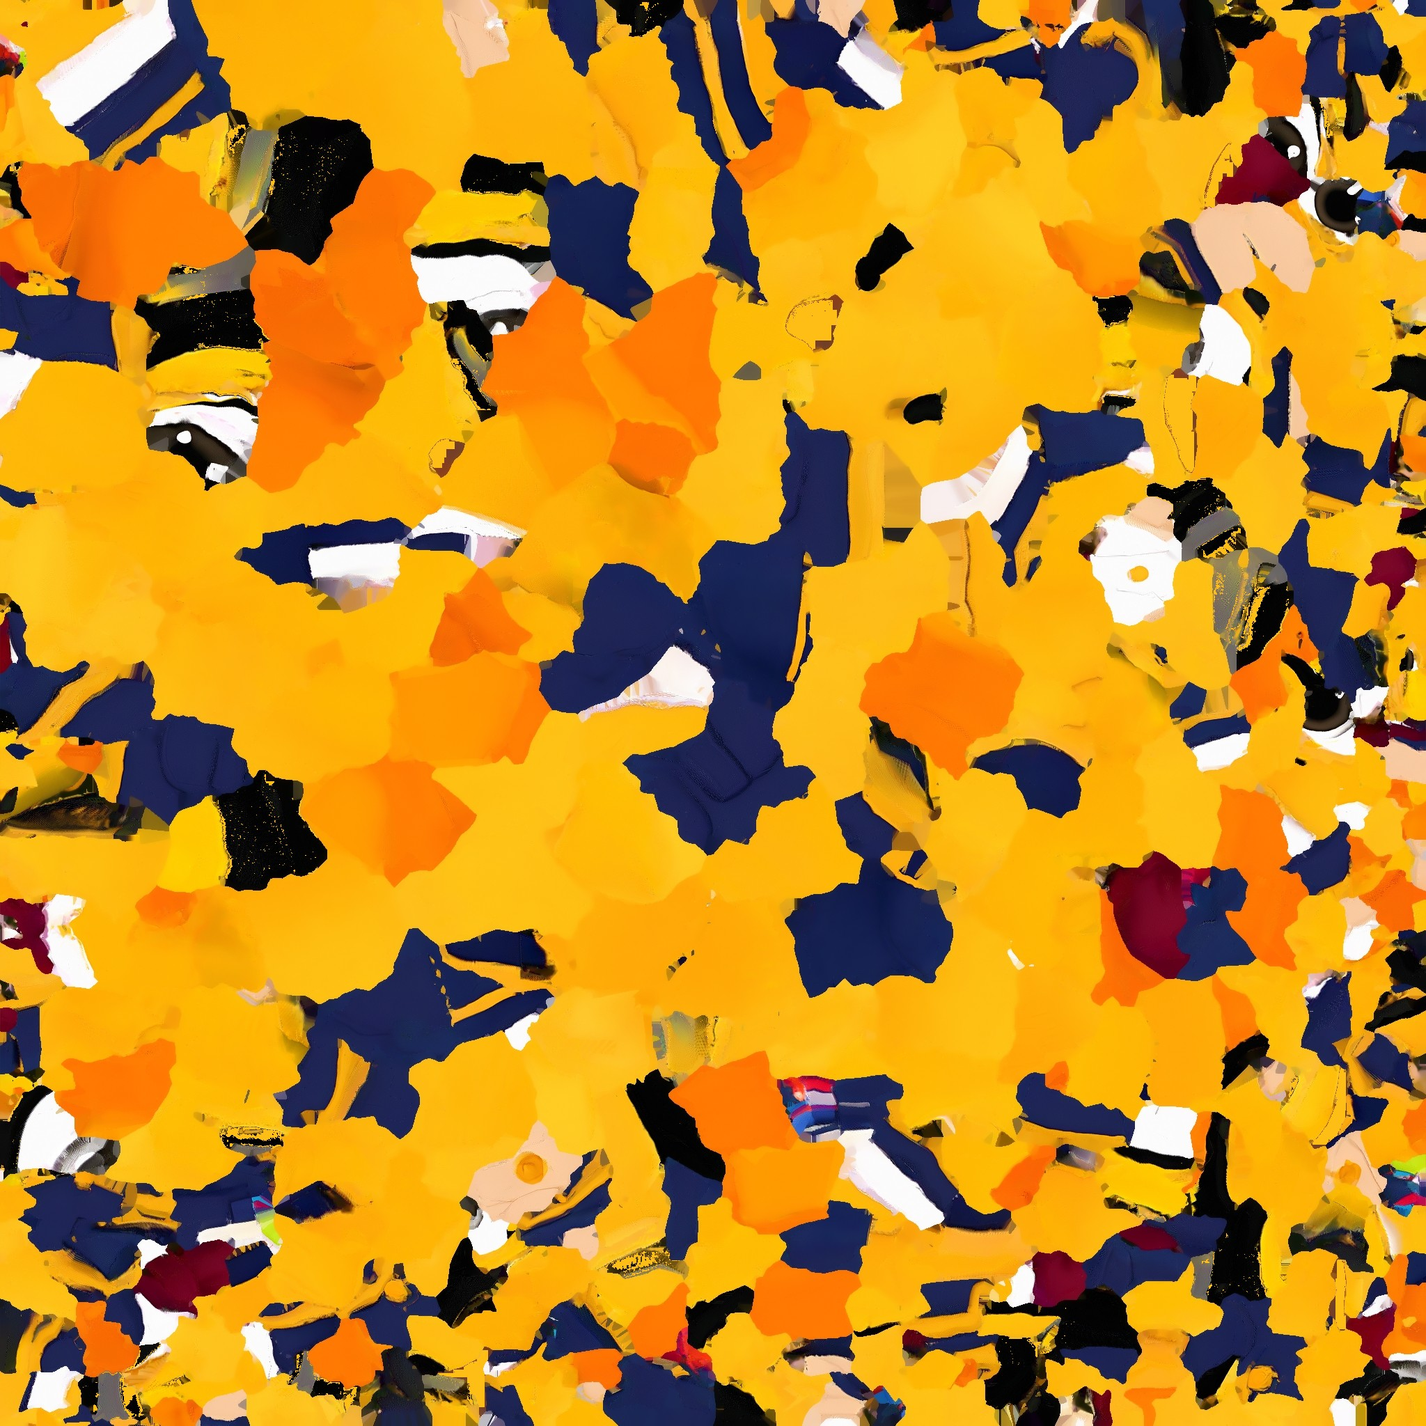
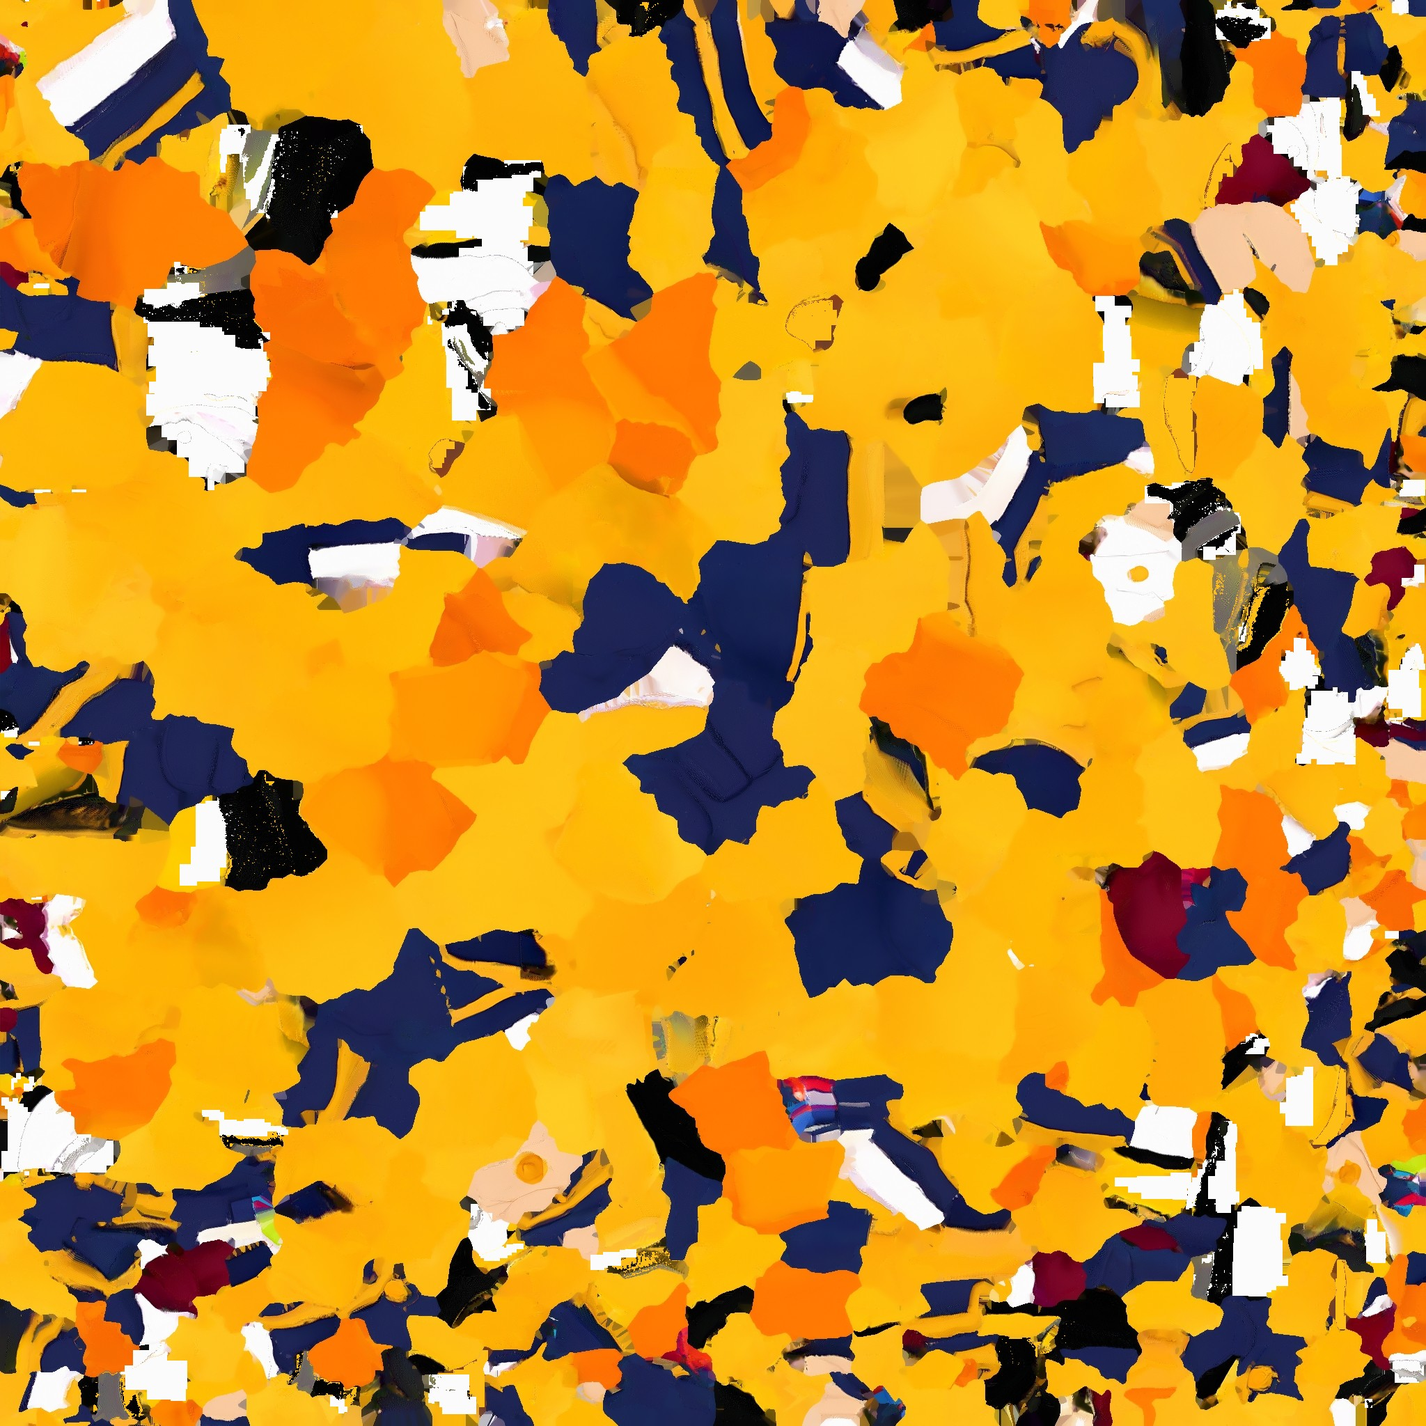
New default character (feet, tail, clean eyes); lesson 6 = Test on new eggs; WebGL 2 build fix

diff --git a/tools/compose_trailer_bgm.py b/tools/compose_trailer_bgm.py
@@ -1,0 +1,206 @@
+"""
+Original background music for the Professor Quack trailer (no samples, no third-party audio).
+A playful "quirky corporate" theme: pizzicato strings (Karplus-Strong), glockenspiel melody, bouncy bass,
+light percussion, and a triumphant string swell for the board-meeting finale. 115 BPM, C major, 76 s.
+
+Sections follow the trailer's cuts (seconds): title 0-4, TV story 4-12, egg cloud + dials 12-33,
+bands / landscape / gradient descent 33-54, whiteboard 54-59, board meeting 59-71, congratulations 71-76.
+
+Run with any Python that has numpy (e.g. Blender's bundled Python):
+  python3 tools/compose_trailer_bgm.py out.wav
+"""
+import sys, wave
+import numpy as np
+
+SR = 44100
+BPM = 115.0
+BEAT = 60.0 / BPM
+BAR = 4 * BEAT
+LENGTH = 76.0
+N = int(SR * LENGTH)
+L = np.zeros(N); R = np.zeros(N)
+rng = np.random.default_rng(7)
+
+
+def hz(m): return 440.0 * 2 ** ((m - 69) / 12.0)
+
+
+def add(sig, t0, gain=1.0, pan=0.0):
+    i = int(t0 * SR)
+    if i >= N or i + len(sig) <= 0: return
+    s = sig[: max(0, N - i)]
+    lg, rg = np.cos((pan + 1) * np.pi / 4), np.sin((pan + 1) * np.pi / 4)
+    L[i:i + len(s)] += s * gain * lg * 1.414
+    R[i:i + len(s)] += s * gain * rg * 1.414
+
+
+def pluck(m, dur, bright=0.5):
+    """Karplus-Strong pizzicato: a noise burst through a damped delay line, computed block by block."""
+    f = hz(m); d = max(2, int(round(SR / f)))
+    n = int(SR * dur)
+    y = np.zeros(n + d + 1)
+    burst = rng.uniform(-1, 1, d)
+    burst = np.convolve(burst, np.ones(3) / 3, mode="same") * (0.6 + bright * 0.4)
+    y[:d] = burst
+    decay = 0.996 - 0.004 * (m - 48) / 36
+    i = d
+    while i < n + d:
+        j = min(i + d, n + d)
+        y[i:j] = decay * 0.5 * (y[i - d:j - d] + y[i - d - 1:j - d - 1] if i - d - 1 >= 0 else y[i - d:j - d])
+        i = j
+    out = y[d:d + n]
+    env = np.minimum(1, np.arange(n) / (0.002 * SR)) * np.exp(-np.arange(n) / SR * 5.5)
+    return out * env
+
+
+def glock(m, dur=1.2):
+    t = np.arange(int(SR * dur)) / SR
+    f = hz(m)
+    parts = [(1, 1.0, 3.0), (2.76, 0.35, 7.0), (5.40, 0.15, 12.0), (8.93, 0.06, 18.0)]
+    s = sum(a * np.sin(2 * np.pi * f * k * t) * np.exp(-t * dk) for k, a, dk in parts)
+    return s * np.minimum(1, t / 0.001)
+
+
+def bass(m, dur):
+    t = np.arange(int(SR * dur)) / SR
+    f = hz(m)
+    s = np.sin(2 * np.pi * f * t) + 0.35 * np.sin(4 * np.pi * f * t) + 0.12 * np.sin(6 * np.pi * f * t)
+    return s * np.minimum(1, t / 0.004) * np.exp(-t * 4.5)
+
+
+def kick():
+    t = np.arange(int(SR * 0.25)) / SR
+    f = 45 + 80 * np.exp(-t * 30)
+    return np.sin(2 * np.pi * np.cumsum(f) / SR) * np.exp(-t * 14)
+
+
+def shaker():
+    n = int(SR * 0.06)
+    x = rng.uniform(-1, 1, n); x = np.diff(np.concatenate([[0], x]))
+    return x * np.exp(-np.arange(n) / SR * 70)
+
+
+def pad(ms, dur, attack=1.5):
+    """Warm string pad: detuned band-limited saws, slow attack."""
+    t = np.arange(int(SR * dur)) / SR
+    s = np.zeros_like(t)
+    for m in ms:
+        for det in (-0.07, 0.0, 0.08):
+            f = hz(m + det)
+            for k in range(1, 10):
+                s += np.sin(2 * np.pi * f * k * t + k) / k * (0.85 ** k)
+    s /= len(ms) * 3
+    env = np.minimum(1, t / attack) * np.minimum(1, (dur - t) / 0.4)
+    return s * env
+
+
+def timpani(m):
+    t = np.arange(int(SR * 1.2)) / SR
+    f = hz(m) * (1 + 0.15 * np.exp(-t * 20))
+    return (np.sin(2 * np.pi * np.cumsum(f) / SR) * 0.9 + rng.uniform(-1, 1, len(t)) * 0.15 * np.exp(-t * 25)) * np.exp(-t * 3)
+
+
+def cymbal(dur, swell=False):
+    n = int(SR * dur); t = np.arange(n) / SR
+    x = rng.uniform(-1, 1, n); x = np.diff(np.concatenate([[0], x]))
+    env = (t / dur) ** 2 if swell else np.exp(-t * 1.8)
+    return x * env
+
+
+CH = {"C": [48, 52, 55], "Am": [45, 48, 52], "F": [41, 45, 48], "G": [43, 47, 50], "Em": [40, 43, 47], "Dm": [38, 41, 45]}
+ROOT = {"C": 36, "Am": 33, "F": 29, "G": 31, "Em": 28, "Dm": 26}
+A = ["C", "Am", "F", "G"]
+B = ["F", "G", "Em", "Am"]
+
+# melody: (beat in bar, length in beats, midi), four bars
+MEL = [
+    [(0, .5, 76), (.5, .5, 79), (1, .5, 81), (1.5, .5, 79), (2, 1, 76), (3, 1, 72)],
+    [(0, .5, 72), (.5, .5, 74), (1, .5, 76), (1.5, .5, 74), (2, 2, 69)],
+    [(0, .5, 77), (.5, .5, 76), (1, .5, 74), (1.5, .5, 72), (2, 1, 74), (3, 1, 77)],
+    [(0, 1.5, 79), (1.5, .5, 77), (2, 1, 74), (3, 1, 71)],
+]
+MEL_B = [
+    [(0, 1, 81), (1, .5, 79), (1.5, .5, 77), (2, 1, 76), (3, 1, 77)],
+    [(0, 1, 79), (1, .5, 77), (1.5, .5, 76), (2, 2, 74)],
+    [(0, .5, 76), (.5, .5, 79), (1, .5, 83), (1.5, .5, 79), (2, 1, 76), (3, 1, 79)],
+    [(0, 1, 81), (1, 1, 76), (2, 2, 72)],
+]
+
+
+def bar_time(b): return b * BAR
+
+
+def oompah(b, chord, level=1.0, offbeats=True):
+    t0 = bar_time(b)
+    add(bass(ROOT[chord], BEAT * 0.9), t0, 0.55 * level)
+    add(bass(ROOT[chord] + 7, BEAT * 0.9), t0 + 2 * BEAT, 0.45 * level)
+    for k, beat in enumerate([1, 3] + ([0.5, 1.5, 2.5, 3.5] if offbeats else [])):
+        for j, m in enumerate(CH[chord]):
+            add(pluck(m + 12, 0.35, 0.4), t0 + beat * BEAT + j * 0.004, 0.16 * level, pan=-0.4 if k % 2 else 0.4)
+
+
+def melody(b, phrase, inst="glock", octave=0, level=1.0):
+    t0 = bar_time(b)
+    for beat, ln, m in phrase:
+        if inst == "glock": add(glock(m + octave, max(0.6, ln * BEAT * 2)), t0 + beat * BEAT, 0.22 * level, pan=0.2)
+        else: add(pluck(m + octave, max(0.3, ln * BEAT * 1.4), 0.7), t0 + beat * BEAT, 0.3 * level, pan=-0.1)
+
+
+def drums(b, level=1.0, kicks=True):
+    t0 = bar_time(b)
+    for e in range(8):
+        add(shaker(), t0 + e * BEAT / 2, (0.05 if e % 2 else 0.035) * level, pan=0.3)
+    if kicks:
+        add(kick(), t0, 0.5 * level); add(kick(), t0 + 2 * BEAT, 0.42 * level)
+
+
+# --- arrangement (bar numbers; one bar = 2.087 s) ---
+# bars 0-1: title: glockenspiel motif alone over a soft C pad
+add(pad(CH["C"], 2 * BAR, 1.0), 0, 0.10)
+melody(0, MEL[0]); melody(1, MEL[3], level=0.8)
+# bars 2-5: the TV story: pizzicato oom-pah, no melody yet
+for i, b in enumerate(range(2, 6)): oompah(b, A[i % 4], 0.8, offbeats=(b > 3))
+melody(5, [(2, .5, 79), (2.5, .5, 81), (3, 1, 83)], level=0.7)
+# bars 6-15: egg cloud + dials: full groove, glockenspiel melody doubled by pizzicato
+for i, b in enumerate(range(6, 16)):
+    oompah(b, A[i % 4]); drums(b, 0.9 if b > 7 else 0.5, kicks=b > 7)
+    melody(b, MEL[i % 4]); melody(b, MEL[i % 4], "pluck", -12, 0.5)
+# bars 16-25: bands, landscape, gradient descent: B section, countermelody
+for i, b in enumerate(range(16, 26)):
+    ch = B[i % 4] if i < 8 else ["F", "G"][i - 8]
+    oompah(b, ch); drums(b, 1.0)
+    melody(b, MEL_B[i % 4]); melody(b, MEL_B[i % 4], "pluck", -12, 0.45)
+add(cymbal(BAR, swell=True), bar_time(25), 0.05)
+# bars 26-27: whiteboard: a breather, plucks only
+oompah(26, "Am", 0.6, offbeats=False); oompah(27, "Dm", 0.6, offbeats=False)
+melody(27, [(2, .5, 74), (2.5, .5, 77), (3, .5, 79), (3.5, .5, 83)], "pluck", 0, 0.6)
+# bars 28-33: board meeting: strings swell, timpani, the theme an octave up, triumphant progression
+FIN = ["F", "G", "Am", "F", "G", "G"]
+for i, b in enumerate(range(28, 34)):
+    ch = FIN[i]
+    add(pad([m + 12 for m in CH[ch]], BAR + 0.3, 0.6), bar_time(b), 0.10 + 0.03 * i)
+    oompah(b, ch, 0.9); drums(b, 1.0)
+    add(timpani(ROOT[ch] + 12), bar_time(b), 0.25)
+    melody(b, MEL[i % 4], octave=12 if i > 1 else 0, level=0.9)
+add(cymbal(BAR, swell=True), bar_time(33), 0.08)
+for k in range(4): add(timpani(43), bar_time(33) + 2 * BEAT + k * BEAT / 2, 0.16 + 0.05 * k)
+# bar 34+: congratulations: big C chord, glockenspiel arpeggio flourish, cymbal, ring out
+t_end = bar_time(34)
+add(pad([60, 64, 67, 72], LENGTH - t_end, 0.08), t_end, 0.28)
+add(bass(36, 3.0), t_end, 0.7); add(timpani(48), t_end, 0.4); add(kick(), t_end, 0.6)
+add(cymbal(4.0), t_end, 0.12)
+for k, m in enumerate([72, 76, 79, 84, 88, 91, 96]): add(glock(m, 2.5), t_end + k * 0.07, 0.2)
+for j, m in enumerate([60, 64, 67, 72]): add(pluck(m, 1.5, 0.8), t_end + j * 0.01, 0.25)
+
+# --- master: gentle compression, fade in/out, normalise ---
+mix = np.stack([L, R])
+mix = np.tanh(mix * 1.6) / np.tanh(1.6)
+fade = np.ones(N); fi = int(0.3 * SR); fo = int(2.5 * SR)
+fade[:fi] = np.linspace(0, 1, fi); fade[-fo:] = np.linspace(1, 0, fo) ** 1.5
+mix *= fade
+mix /= np.max(np.abs(mix)) / 0.89
+pcm = (mix.T * 32767).astype("<i2")
+out = sys.argv[1] if len(sys.argv) > 1 else "trailer_bgm.wav"
+with wave.open(out, "wb") as w:
+    w.setnchannels(2); w.setsampwidth(2); w.setframerate(SR); w.writeframes(pcm.tobytes())
+print("wrote", out, f"{LENGTH:.1f}s")

diff --git a/Assets/_Quack/Runtime/Lesson/LessonDirector.cs b/Assets/_Quack/Runtime/Lesson/LessonDirector.cs
@@ -533,8 +533,8 @@ namespace Quack
             stages.Add(new Stage
             {
                 Id = "F_test_and_scale",
-                Title = "Test and scale",
-                Goal = "Training eggs taught the rule. The dark, ringed eggs were held back: the rule has never seen them. Evaluate on them, then run the next shipment through the learned sorter.",
+                Title = "Test on new eggs",
+                Goal = "Training eggs taught the rule. The dark, ringed eggs were held back: the rule has never seen them. Evaluate on them, then let the learned sorter handle the next shipment of new eggs.",
                 IntroSpeech = "Moment of truth. These outlined eggs were locked in my office the whole time, so the machine has never seen them. If it does well on them, it learned a rule, not a list of answers.",
                 Enter = () =>
                 {
@@ -547,21 +547,18 @@ namespace Quack
                 Action = () => !evaluated ? ("Evaluate on held-out eggs", Evaluate)
                              : !shipped ? ("Run the next shipment (10,000 eggs)", RunShipment) : null,
                 Done = () => evaluated && shipped,
-                RecapTitle = "Sequential vs batch processing",
+                RecapTitle = "Unseen eggs",
                 RecapLines = () =>
                 {
                     var t = LogisticModel.Evaluate(state.Params, state.Space.Test);
-                    const string blue = "<color=#1A3A9E>", red = "<color=#B3261E>", end = "</color>";
                     var lines = new List<string>
                     {
-                        $"Unseen eggs: {t.Correct}/{t.Total} correct  (JUMBO {t.TruePos}/{t.TruePos + t.FalseNeg}, STANDARD {t.TrueNeg}/{t.TrueNeg + t.FalsePos})",
-                        $"{blue}SEQUENTIAL{end}: one egg at a time,  {VizUtil.M("<i>z</i> = <b><i>w</i></b>\u00B7<b><i>x</i></b> + <i>b</i>")},  10,000 times",
-                        $"{blue}BATCH{end}: eggs = rows of a matrix X  (10,000 x 3)",
-                        $"{VizUtil.M("<b><i>z</i></b> = <i>X</i> <b><i>w</i></b> + <i>b</i>")}: every egg scored in ONE operation",
-                        $"Same w and b, same answers: only {red}how the work is organised{end} changes",
-                        "Parallel workers help, but they are finite and moving data costs time",
+                        $"Held-out eggs: {t.Correct}/{t.Total} correct  (JUMBO {t.TruePos}/{t.TruePos + t.FalseNeg}, STANDARD {t.TrueNeg}/{t.TrueNeg + t.FalsePos})",
+                        "Training taught the rule; evaluation checks it on eggs it never saw",
+                        "Using the trained rule on new eggs (inference) never changes w or b",
                     };
-                    if (shipmentLines != null && shipmentLines.Length > 1) { lines.Add(shipmentLines[1]); if (shipmentLines.Length > 2) lines.Add(shipmentLines[2]); }
+                    if (shipmentLines != null && shipmentLines.Length > 0) lines.Add(shipmentLines[0]);
+                    lines.Add($"Unsure eggs go to an inspector: a review band, separate from the {VizUtil.M("<i>p</i> = 0.5")} decision");
                     return lines.ToArray();
                 },
             });
@@ -698,7 +695,7 @@ namespace Quack
             "Turn a score into a probability with the sigmoid",
             "Tell accuracy from loss: confident mistakes cost most",
             "Train with gradient descent and choose a sensible learning rate",
-            "Judge a model on held-out data, then run it on a whole batch",
+            "Judge a model on held-out data, then use it on new eggs",
         };
 
         /// <summary>Pause menu: start the current lesson again.</summary>
@@ -739,24 +736,15 @@ namespace Quack
             const int N = 10000;
             const double reviewBand = 0.15;   // flag eggs with 0.35 < p < 0.65 for a human; decisions still use p >= 0.5
             var shipment = ShipmentGenerator.Generate(N);
-            var sw = System.Diagnostics.Stopwatch.StartNew();
             var r = ShipmentGenerator.Classify(shipment, state.Space.Scaler, state.Space.Active, state.Params, reviewBand);
-            sw.Stop();
             shipped = true;
             lastFlagged = r.FlaggedForReview;
             state.Log("shipment", $"{r.Jumbo} jumbo, {r.Standard} standard, {r.FlaggedForReview} flagged");
-            // illustrative cost model (NOT a measurement): per-egg overhead vs per-batch overhead; finite workers + transfer cost
-            double perEggOverheadUs = 40, perEggComputeUs = 0.05, batch = 256, perBatchOverheadUs = 60, workers = 4, transferUs = 2000;
-            double oneAtATime = N * (perEggOverheadUs + perEggComputeUs) / 1000.0;
-            double batched = (Math.Ceiling(N / batch) * perBatchOverheadUs + N * perEggComputeUs) / 1000.0;
-            double parallel = transferUs / 1000.0 + batched / workers;
             shipmentLines = new[]
             {
-                $"Shipment of {N:N0}: {r.Jumbo:N0} JUMBO, {r.Standard:N0} STANDARD; {r.FlaggedForReview:N0} unsure (0.35<p<0.65) sent to an inspector",
-                $"Measured here: {sw.Elapsed.TotalMilliseconds:0.0} ms for {N:N0} eggs (one CPU thread, this C# code)",
-                $"ILLUSTRATIVE, not measured: one-at-a-time ~{oneAtATime:0} ms; batches of {batch} ~{batched:0.0} ms; {workers} workers + transfer ~{parallel:0.0} ms",
+                $"Next shipment of {N:N0}: {r.Jumbo:N0} JUMBO, {r.Standard:N0} STANDARD; {r.FlaggedForReview:N0} unsure (0.35 < p < 0.65) sent to an inspector",
             };
-            whiteboard.Show($"Next shipment: {N:N0} new eggs", shipmentLines);
+            whiteboard.Show($"Next shipment: {N:N0} new eggs", shipmentLines[0], "Same rule, same w and b: it only predicts, it does not learn here");
             speech.Say(new TutorLine($"Ten thousand eggs, sorted. {r.FlaggedForReview} were too close to call, so they go to a human inspector instead of guessing. Finally, a factory I can be proud of.",
                 Emotion.Delighted, Gesture.Celebrate, TutorPriority.Teaching) { Gaze = GazeTarget.Whiteboard, Duck = DuckBehavior.Quack });
         }

diff --git a/tools/blender/prepare_quacks.py b/tools/blender/prepare_quacks.py
@@ -175,6 +175,33 @@ if opt["--face"]:
         img.pixels[:] = px.ravel().tolist(); img.update()
     print(f"QUACKS painted out baked brows: {painted} pixels")
 
+    # paint the baked pupils/irises out too (Unity adds moving eyes): inside each eye's sclera disc, dark or brown
+    # pixels -> the sclera's own white. Otherwise the old pupil peeks out beside the animated eye when the head turns.
+    sclera = np.median(col[eye], axis=0) if eye.sum() > 10 else np.array([0.93, 0.92, 0.9])
+    painted_eyes = 0
+    for tag in ("L", "R"):
+        if f"eye{tag}" not in FACE: continue
+        ec = np.array(FACE[f"eye{tag}"]); er = FACE[f"eye{tag}_r"]
+        dxz = np.linalg.norm((co - ec)[:, [0, 2]], axis=1)
+        inside = (dxz < er * 1.12) & (co[:, 1] < ec[1] + 0.04 * D)
+        for p in me.polygons:
+            vs = list(p.vertices)
+            if not inside[vs].all(): continue
+            uvs = np.array([uvl[li].uv[:] for li in p.loop_indices]) * [TW, TH]
+            x0, y0 = np.floor(uvs.min(0)).astype(int); x1, y1 = np.ceil(uvs.max(0)).astype(int)
+            x0, y0 = max(x0, 0), max(y0, 0); x1, y1 = min(x1, TW - 1), min(y1, TH - 1)
+            if x1 <= x0 or y1 <= y0: continue
+            patch = px[y0:y1 + 1, x0:x1 + 1, :3]
+            ph = np.array([colorsys.rgb_to_hsv(*c) for c in patch.reshape(-1, 3)]).reshape(patch.shape)
+            outer = dxz[vs].mean() > er * 0.95   # ring near the glasses: only brown iris pixels, never the black rim
+            brownish = (ph[..., 1] > 0.3) & (ph[..., 0] < 0.15)
+            bad = brownish if outer else ((ph[..., 2] < 0.6) | brownish)
+            if bad.any():
+                patch[bad] = sclera; painted_eyes += int(bad.sum())
+    if painted_eyes:
+        img.pixels[:] = px.ravel().tolist(); img.update()
+    print(f"QUACKS painted out baked pupils: {painted_eyes} pixels")
+
 # 3b) optional: remove the generated head (baked eyes/glasses can't animate); Unity attaches the
 #     procedural Design A head + controllable face to the head bone instead.
 if opt["--strip-head"]:

diff --git a/Assets/_Quack/Runtime/QuackGame.cs b/Assets/_Quack/Runtime/QuackGame.cs
@@ -90,7 +90,7 @@ namespace Quack
             // generated body only when explicitly requested (until a clean Design A model is approved)
             QuacksRig rig = null;
             // the generated Design A model is the default when it is in the build; -quackStandin forces the primitive stand-in
-            var charName = ArgValue("-quackCharacter") ?? (HasArg("-quackStandin") ? null : "ProfessorQuack");
+            var charName = ArgValue("-quackCharacter") ?? (HasArg("-quackStandin") ? null : "ProfessorQuackV2");
             if (charName != null)
             {
                 rig = CharacterLoader.TryLoad(charName, Palette, out var report);
@@ -340,7 +340,7 @@ namespace Quack
                 l.type = LightType.Point; l.transform.position = pos; l.range = 10; l.intensity = intensity; l.color = new Color(1f, 0.96f, 0.9f);
             }
             QuacksRig rig = null;
-            var charName = ArgValue("-quackCharacter") ?? (HasArg("-quackStandin") ? null : "ProfessorQuack");
+            var charName = ArgValue("-quackCharacter") ?? (HasArg("-quackStandin") ? null : "ProfessorQuackV2");
             if (charName != null) { rig = CharacterLoader.TryLoad(charName, Palette, out var report); Debug.Log("QUACK_CHARACTER " + report); }
             if (rig == null) rig = QuacksRig.BuildPlaceholder(null, Palette);
             rig.transform.SetPositionAndRotation(Vector3.zero, Quaternion.identity);

diff --git a/Assets/_Quack/Runtime/TrailerDirector.cs b/Assets/_Quack/Runtime/TrailerDirector.cs
@@ -9,7 +9,7 @@ namespace Quack
     /// <summary>
     /// Records a ~80 s gameplay trailer from the real game (-quackTrailer &lt;dir&gt;): a scripted run through the title, the
     /// intro video, the egg cloud, a player turning the desk dials, probability bands, parameter space, gradient descent,
-    /// the batch whiteboard and the board-meeting finale. Frames are rendered at a fixed 30 fps (Time.captureFramerate),
+    /// the unseen-eggs test and the board-meeting finale. Frames are rendered at a fixed 30 fps (Time.captureFramerate),
     /// so the result is smooth however slowly the machine renders; frames are saved as JPEGs for ffmpeg.
     /// Everything shown is the live simulation: the dial turns change the real parameters.
     /// </summary>
@@ -197,7 +197,7 @@ namespace Quack
             yield return Wait(0.8f);
 
             Debug.Log("QUACK_TRAILER segment 8) unseen eggs frame=" + frame);
-            // 8) unseen eggs and sequential vs batch
+            // 8) unseen eggs
             Start.OnJump?.Invoke("F_test_and_scale"); yield return Park(home);
             desk.UserSteered = true; desk.SetView(8);
             yield return Wait(2.0f);

diff --git a/Assets/_Quack/Editor/BuildScripts.cs b/Assets/_Quack/Editor/BuildScripts.cs
@@ -29,6 +29,9 @@ namespace Quack.Editor
             PlayerSettings.WebGL.dataCaching = true;
             PlayerSettings.WebGL.exceptionSupport = WebGLExceptionSupport.ExplicitlyThrownExceptionsOnly;
             PlayerSettings.runInBackground = true;
+            // WebGL 2 only: with WebGPU listed first, browsers that fall back to WebGL 2 drew no lit (URP) meshes at all
+            PlayerSettings.SetUseDefaultGraphicsAPIs(BuildTarget.WebGL, false);
+            PlayerSettings.SetGraphicsAPIs(BuildTarget.WebGL, new[] { UnityEngine.Rendering.GraphicsDeviceType.OpenGLES3 });
             Build(BuildTarget.WebGL, "Builds/WebGL");
             EditorApplication.Exit(exitCode);
         }

diff --git a/README.md b/README.md
@@ -13,7 +13,7 @@ Professor Quack's egg-sorting machine breaks the night before a big shipment. Yo
 | 3 | Measure the mistakes | **probability** `p = σ(z)` and **cross-entropy loss** vs accuracy |
 | 4 | Explore the landscape | **parameter space**: a labelled 2D slice of the loss surface |
 | 5 | Teach the machine | **gradient descent**: small, good and overshooting learning rates |
-| 6 | Test and scale | **held-out eggs**, then **sequential vs batch** processing of 10,000 eggs |
+| 6 | Test on new eggs | **held-out eggs** for both classes, then a shipment of new eggs with unsure ones sent to an inspector |
 
 **Professor Quack** is an AI tutor powered by **Google Gemini**. He receives the actual game state (your parameters, the selected egg, your mistakes, loss, recent actions), asks a leading question before giving an answer, highlights what he's talking about, and walks to that part of the lab.
 
@@ -90,7 +90,6 @@ docs/          architecture, character pipeline, testing
 ## Honest notes
 
 - The maths is real: every plane, arrow, surface and number is computed from the same parameters the model uses. The loss is convex, so there are no fake local minima.
-- Throughput figures in lesson 6 are labelled: one is **measured** in-game, the others are **illustrative**.
 - The egg dataset is synthetic and fictional, generated by `tools/gen_eggs.py`.
 - Professor Quack's 3D model, the intro and finale clips, and some concept art were AI-generated (Higgsfield), then cleaned up and rigged by our Blender pipeline (`tools/blender/prepare_quacks.py`).
 
